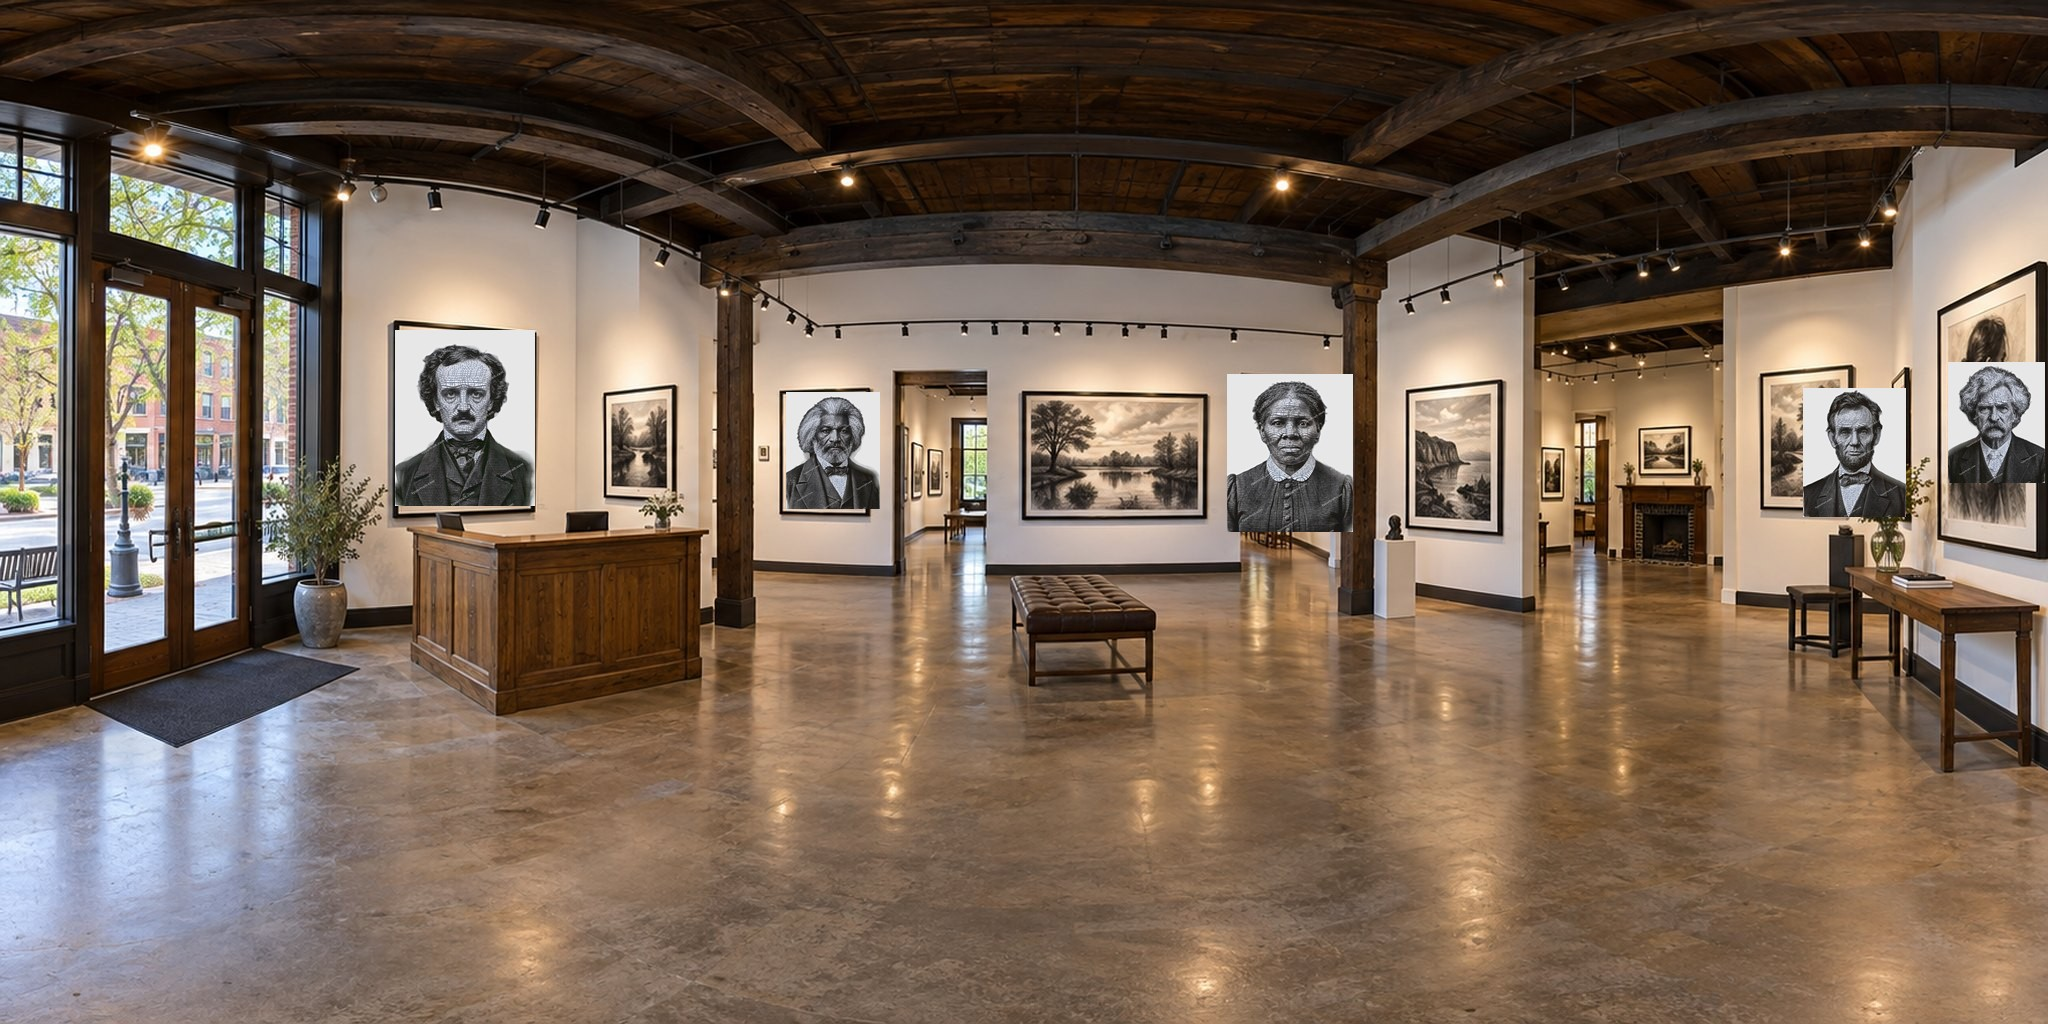
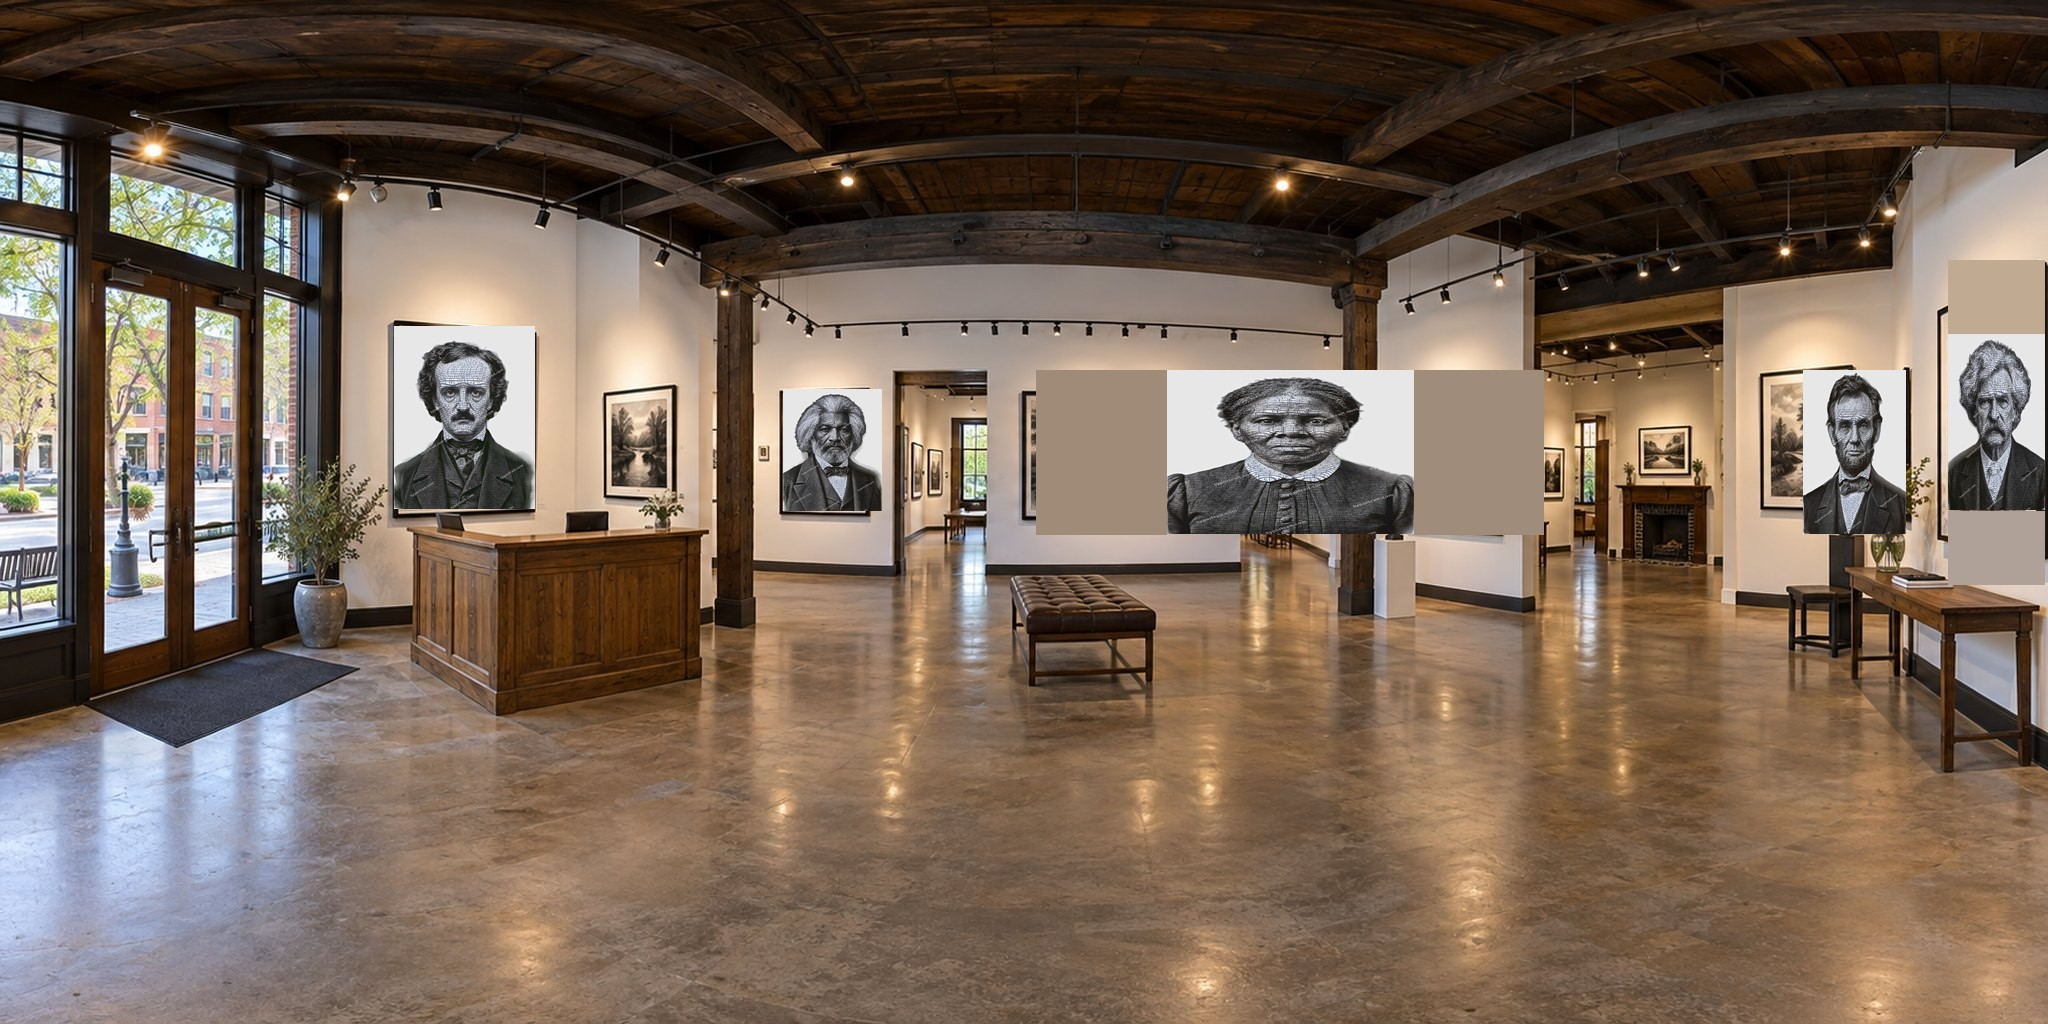
Fix photo tour: fill each frame completely instead of leaving margins
The previous bake fit a centered 4:5 box within each measured frame region,
leaving a margin wherever the real frame's own aspect ratio didn't match a
portrait's -- which was most of them, so the original photographed art was
still visible around the edges of several portraits (most noticeably Stanton,
Darwin and Victoria in the rear salon, each showing a large uncovered strip).

Switched to full-bleed: stretch each portrait to cover the ENTIRE measured
region, no margin. That alone caused a new problem on the handful of frames
with an extreme aspect ratio (Tubman's very wide landscape-style frame,
Twain's very narrow tall one) -- stretched all the way to fill, a portrait's
face became visibly smeared or squished. Added clamp_box(): when a region's
aspect falls outside a tolerable band around the portrait's natural 4:5, the
portrait fills as much of it as it can without distorting, and only the
leftover sliver (not the whole region) is filled with a color sampled from
that same margin strip in the original photo -- close to the real local wall
tone, not a fixed value.

Claude-Session: https://claude.ai/code/session_01XwVU5cc41rNpqSZeMAKs6S

diff --git a/typography_engine/static/gallery.html b/typography_engine/static/gallery.html
@@ -464,7 +464,7 @@ let raycaster, pointerNDC;   // built in initRenderer, once THREE is actually lo
 // Each photo can only show as many portraits as it has real frames worth pasting into
 // (19 of 23 across all three rooms) -- the remaining 4 still sell fine from the grid
 // and the corridor, they just don't have a natural-looking wall spot in these photos.
-const PHOTO_BAKE_VERSION = 2;    // bump whenever the baked panorama JPGs are regenerated
+const PHOTO_BAKE_VERSION = 3;    // bump whenever the baked panorama JPGs are regenerated
 const PHOTO_ROOM_RADIUS = 900;   // the panorama sphere
 const PHOTO_FRAME_RADIUS = 650;  // depth of the invisible click targets (matches bake)
 // Yaw values below are pre-corrected for THREE's actual SphereGeometry UV convention

diff --git a/typography_engine/ops/photoscene-composite.py b/typography_engine/ops/photoscene-composite.py
@@ -38,7 +38,7 @@ import json
 import math
 from pathlib import Path
 
-from PIL import Image
+from PIL import Image, ImageStat
 
 ROOT = Path(__file__).resolve().parent.parent
 ART_DIR = ROOT / "static/gallery/art"
@@ -86,18 +86,46 @@ W, H = 2048, 1024
 RADIUS = 650  # matches PHOTO_FRAME_RADIUS in gallery.html
 
 
+ART_ASPECT = 900 / 1125  # w/h of the source portrait PNGs (0.8)
+# How far a region's own aspect ratio may stretch the portrait before it's visibly
+# distorted (a squished-narrow or smeared-wide face) rather than just mildly stretched.
+ASPECT_BAND = (0.55, 1.5)
+
+
 def inner_box(x0, y0, x1, y1):
-    """A centered 4:5 (portrait) box within the region, filling most of it -- leaves a
-    thin margin of the real frame's own mat/border visible, which is what makes the
-    result read as "a picture in that frame" instead of a precisely-matched sticker."""
-    avail_w, avail_h = (x1 - x0) * 0.94, (y1 - y0) * 0.9
-    target_w = avail_h * 0.8
-    if target_w > avail_w:
-        target_w, target_h = avail_w, avail_w / 0.8
-    else:
-        target_h = avail_h
-    cx, cy = (x0 + x1) / 2, (y0 + y1) / 2
-    return cx - target_w / 2, cy - target_h / 2, cx + target_w / 2, cy + target_h / 2
+    """Full-bleed: the region minus a hairline margin for the real frame's own inner
+    edge. A first version tried to preserve the portrait's 4:5 aspect by fitting a
+    smaller centered box inside the region -- for any region whose real aspect ratio
+    wasn't close to 4:5 (most of them), that left a visible strip of the ORIGINAL
+    photographed art uncovered along one or two edges. Stretching to fill the region
+    completely eliminates that, and works fine for most regions -- but a handful are
+    extreme (a very wide landscape frame, or a very tall narrow one), and stretching a
+    portrait to fill THOSE smears or squishes the face into something unrecognizable.
+    See clamp_box() for how those are handled instead."""
+    margin_x, margin_y = (x1 - x0) * 0.03, (y1 - y0) * 0.03
+    return x0 + margin_x, y0 + margin_y, x1 - margin_x, y1 - margin_y
+
+
+def clamp_box(bx0, by0, bx1, by1):
+    """For a region whose aspect ratio is too far from the portrait's to stretch
+    without visible distortion, shrink to the nearest aspect within ASPECT_BAND
+    (centered in the region) and report the leftover margin rectangles (0, 1 or 2 of
+    them -- one pair if clamped, none if the region was already within band) so the
+    caller can fill them separately instead of leaving the ORIGINAL art showing."""
+    w, h = bx1 - bx0, by1 - by0
+    aspect = w / h
+    cx, cy = (bx0 + bx1) / 2, (by0 + by1) / 2
+    if aspect > ASPECT_BAND[1]:              # region too wide -- clamp width
+        new_w = h * ASPECT_BAND[1]
+        px0, px1 = cx - new_w / 2, cx + new_w / 2
+        margins = [(bx0, by0, px0, by1), (px1, by0, bx1, by1)]
+        return (px0, by0, px1, by1), margins
+    if aspect < ASPECT_BAND[0]:               # region too narrow/tall -- clamp height
+        new_h = w / ASPECT_BAND[0]
+        py0, py1 = cy - new_h / 2, cy + new_h / 2
+        margins = [(bx0, by0, bx1, py0), (bx0, py1, bx1, by1)]
+        return (bx0, py0, bx1, py1), margins
+    return (bx0, by0, bx1, by1), []
 
 
 def yaw_pitch(px, py):
@@ -124,9 +152,23 @@ def main():
         for (x0, y0, x1, y1) in regions:
             it = ITEMS[idx]; idx += 1
             bx0, by0, bx1, by1 = inner_box(x0, y0, x1, y1)
-            bw, bh = int(round(bx1 - bx0)), int(round(by1 - by0))
-            art = Image.open(ART_DIR / f"{it}.png").convert("RGB").resize((bw, bh), Image.LANCZOS)
-            im.paste(art, (int(round(bx0)), int(round(by0))))
+            (px0, py0, px1, py1), margins = clamp_box(bx0, by0, bx1, by1)
+
+            # Fill any leftover margin (only for regions whose aspect was clamped)
+            # with a color sampled from that SAME margin strip in the original photo
+            # -- close enough to the real local wall/mat tone to blend, unlike a single
+            # fixed color used everywhere regardless of each region's own lighting.
+            for (mx0, my0, mx1, my1) in margins:
+                mx0i, my0i, mx1i, my1i = (int(round(v)) for v in (mx0, my0, mx1, my1))
+                if mx1i <= mx0i or my1i <= my0i:
+                    continue
+                strip = im.crop((mx0i, my0i, mx1i, my1i))
+                avg = tuple(int(c) for c in ImageStat.Stat(strip).mean[:3])
+                im.paste(Image.new("RGB", (mx1i - mx0i, my1i - my0i), avg), (mx0i, my0i))
+
+            pw, ph = int(round(px1 - px0)), int(round(py1 - py0))
+            art = Image.open(ART_DIR / f"{it}.png").convert("RGB").resize((pw, ph), Image.LANCZOS)
+            im.paste(art, (int(round(px0)), int(round(py0))))
             yaw, pitch = yaw_pitch((bx0 + bx1) / 2, (by0 + by1) / 2)
             ww, wh = world_size(bx0, by0, bx1, by1)
             js_lines.append(
